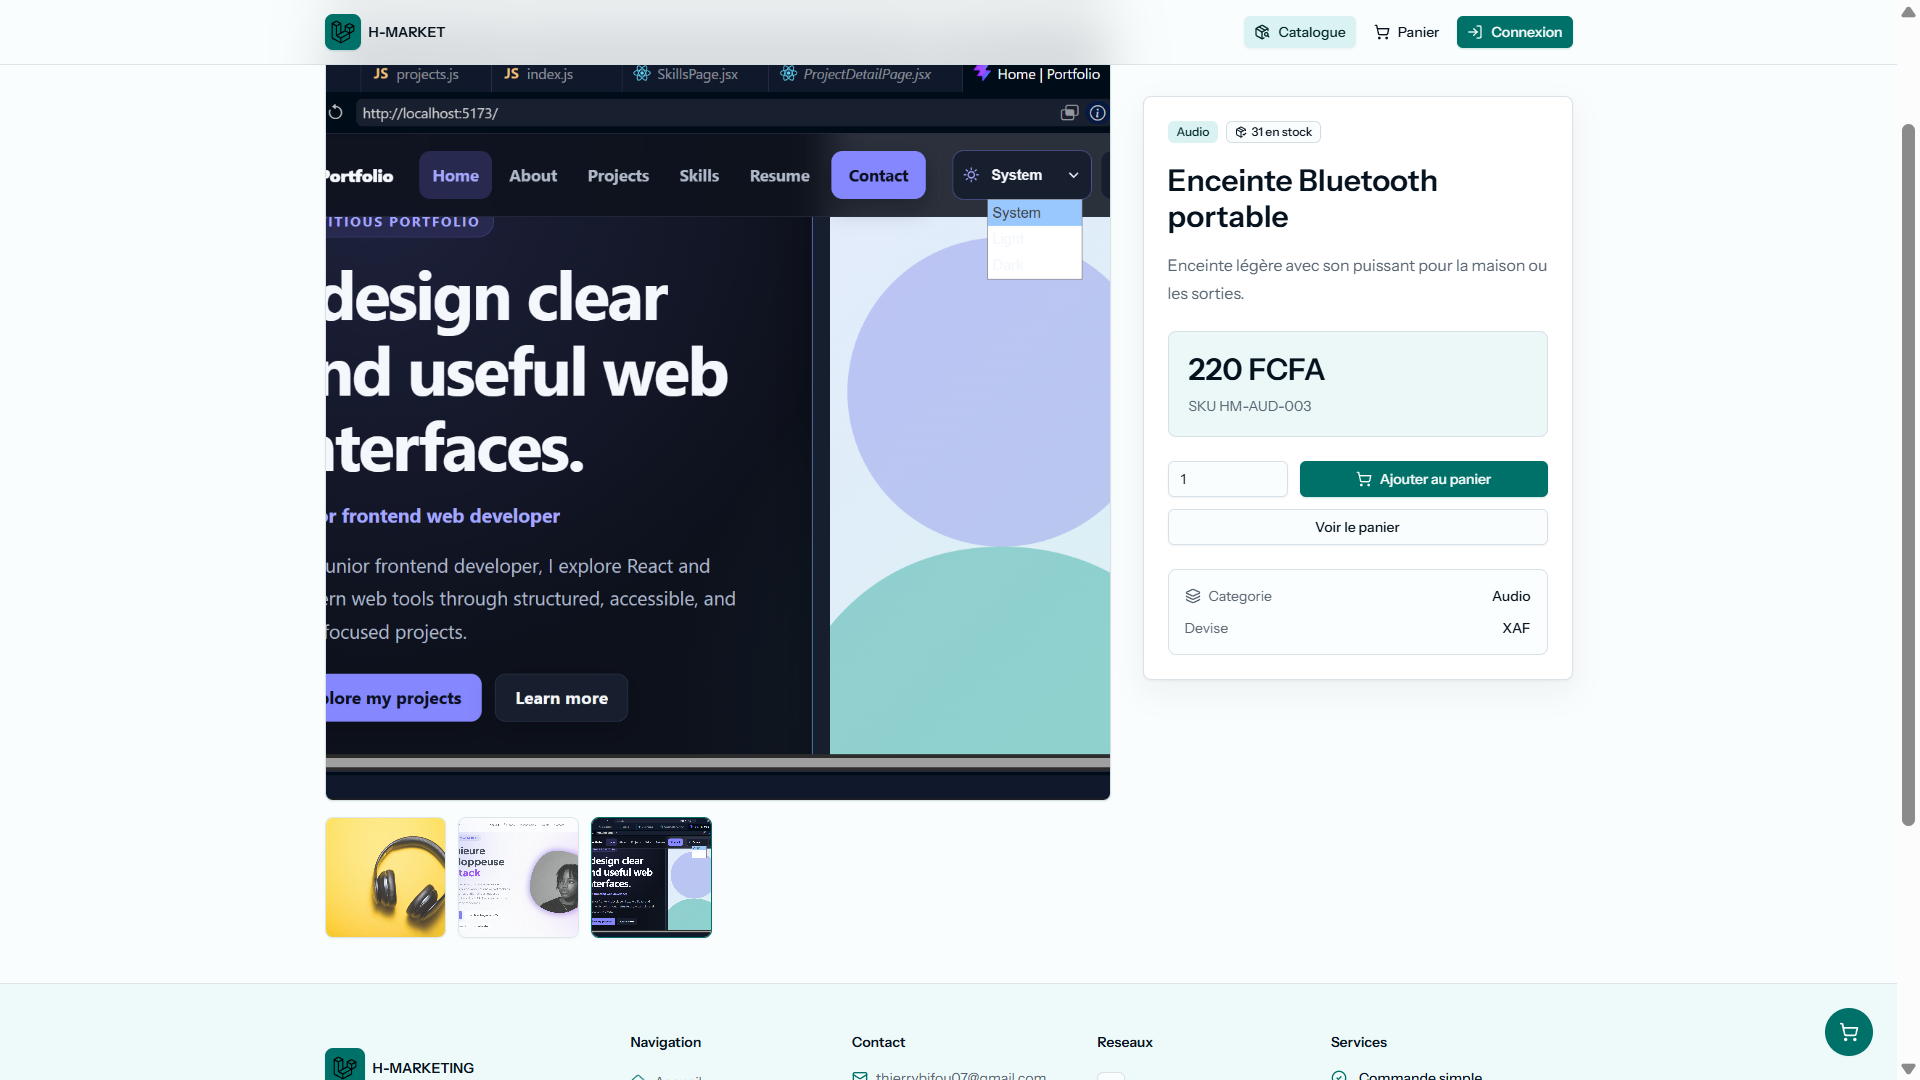
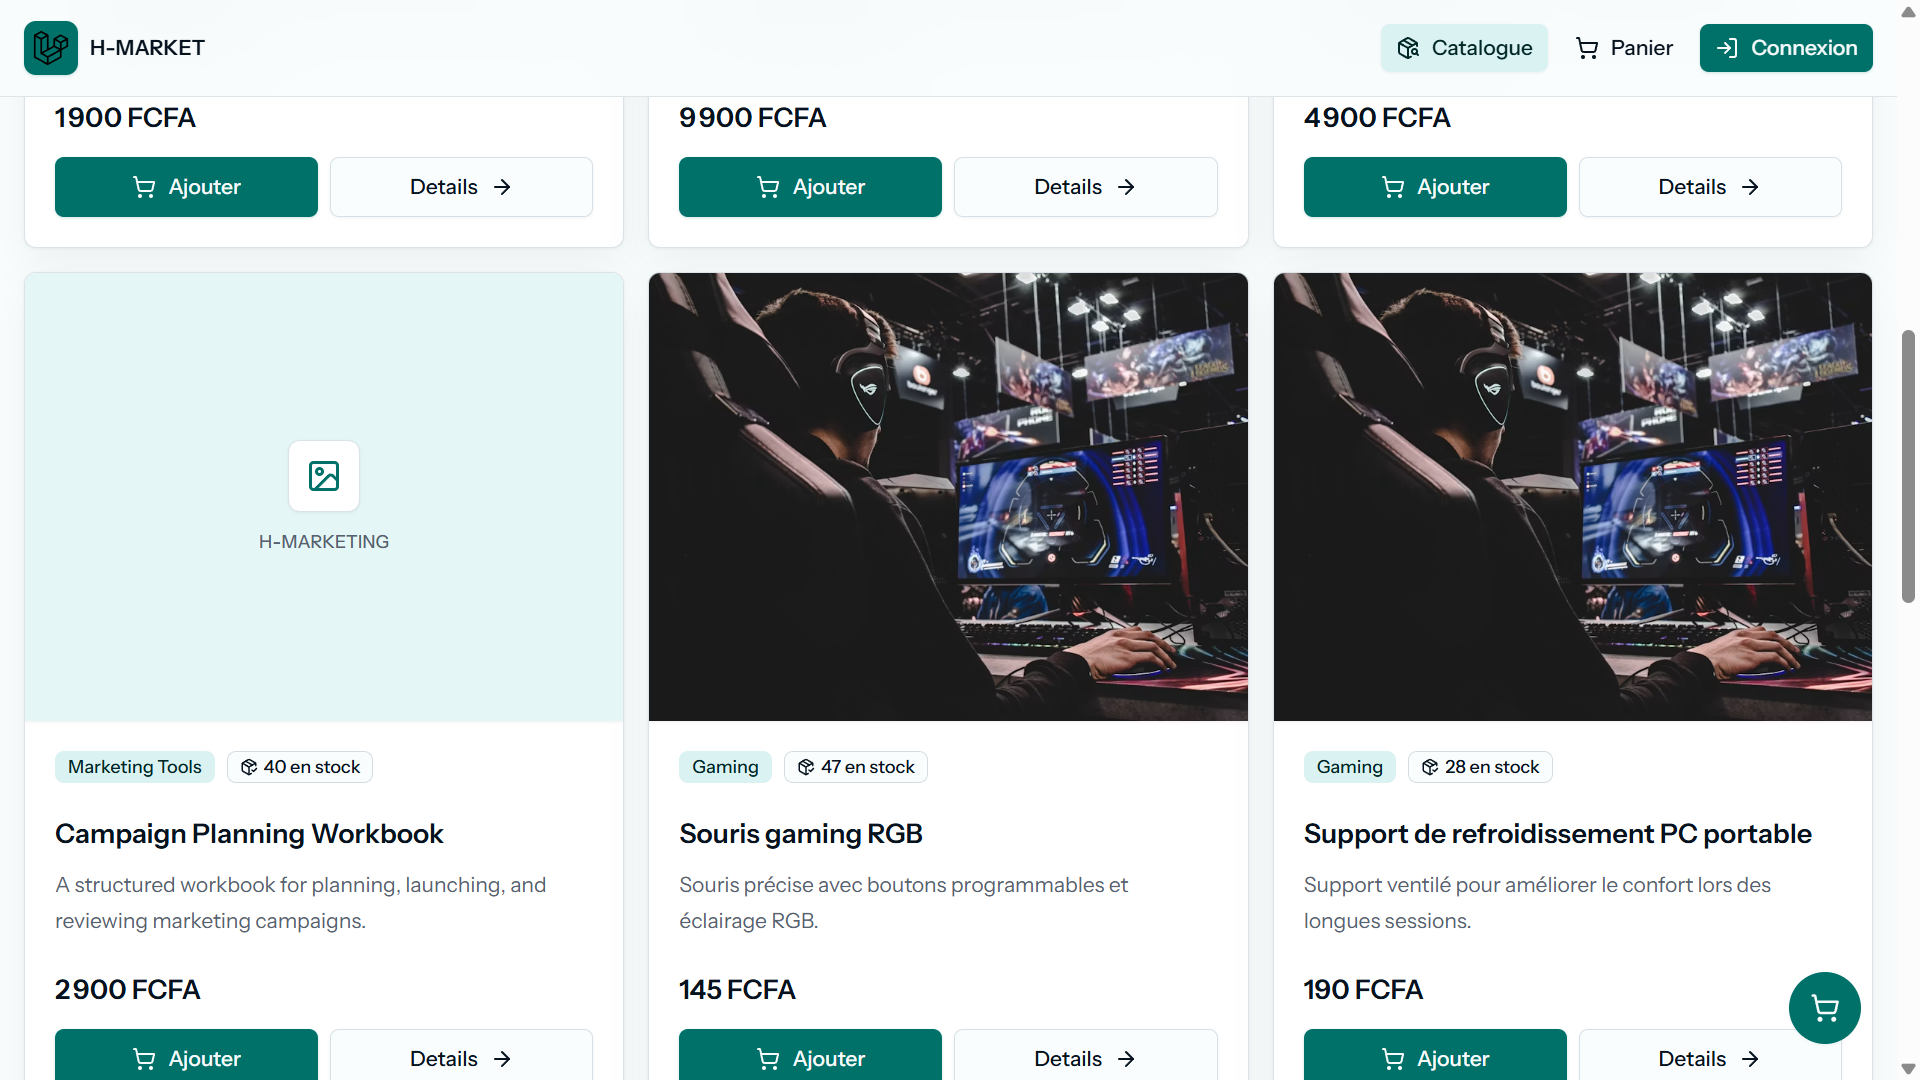
Rename H-Shop to H-Market; update assets & config
Rename project text from H-Shop to H-Market in English and French locales, add and update H-Market gallery images, and update project imports/gallery entries. Also update site config (LinkedIn and WhatsApp URLs, set defaultLocale to 'en'), mark ARMS and H-Market liveUrl as null and liveStatus as UNAVAILABLE, and adjust project preview image selection. Minor component change: remove unused label prop passed to SkillLevelIndicator in SkillGroupCard.jsx.

diff --git a/src/data/locales/fr/content.js b/src/data/locales/fr/content.js
@@ -149,10 +149,10 @@ const frContent = {
       },
     },
     'h-shop': {
-      title: 'H-Shop',
+      title: 'H-Market',
       shortSummary: 'Application e-commerce avec espace client et back office.',
       summary:
-        'H-Shop est une application de commerce électronique construite progressivement avec React, React DOM et Node.js : catalogue, panier, checkout, authentification, rôles et espace administrateur.',
+        'H-Market est une application de commerce électronique construite progressivement avec React, React DOM et Node.js : catalogue, panier, checkout, authentification, rôles et espace administrateur.',
       problem:
         'Une expérience e-commerce cohérente doit séparer clairement le parcours client, les données produits et les outils de gestion réservés aux administrateurs.',
       solution:
@@ -162,18 +162,30 @@ const frContent = {
         'API Express pour les produits, catégories, commandes et sessions.',
         'Authentification avec rôles customer et admin, routes protégées et back office séparé.',
       ],
-      imageAlt: 'Aperçu de l’application e-commerce H-Shop',
+      imageAlt: 'Aperçu de l’application e-commerce H-Market',
       galleryContent: {
         catalog: {
-          alt: 'Vue du catalogue de produits H-Shop',
+          alt: 'Vue du catalogue de produits H-Market',
           caption: null,
         },
         checkout: {
-          alt: 'Vue du parcours de commande H-Shop',
+          alt: 'Vue du parcours de commande H-Market',
           caption: null,
         },
-        payment: {
-          alt: 'Vue de l’étape de paiement H-Shop',
+        order: {
+          alt: 'Vue de l’étape de validation et paiement de commande H-Market',
+          caption: null,
+        },
+        order_admin: {
+          alt: 'Vue de l’étape d’administration des commandes H-Market',
+          caption: null,
+        },
+        dashboard: {
+          alt: 'Vue du tableau de bord H-Market',
+          caption: null,
+        },
+        checkout1: {
+          alt: 'Vue du parcours de commande H-Market',
           caption: null,
         },
       },
@@ -251,7 +263,7 @@ const frContent = {
   experience: {
     'independent-projects': {
       title: 'Développement de projets web personnels et collaboratifs',
-      organization: 'ARMS, H-Shop, BusTix, Paroisse-App et portfolio personnel',
+      organization: 'ARMS, H-Market, BusTix, Paroisse-App et portfolio personnel',
       location: 'Douala, Cameroun — à distance',
       summary:
         'Conception et développement progressif d’applications web afin de consolider mes compétences frontend, backend et organisationnelles.',

diff --git a/src/data/locales/en/content.js b/src/data/locales/en/content.js
@@ -149,10 +149,10 @@ const enContent = {
       },
     },
     'h-shop': {
-      title: 'H-Shop',
+      title: 'H-Market',
       shortSummary: 'E-commerce application with customer area and back office.',
       summary:
-        'H-Shop is an e-commerce application progressively built with React, React DOM, and Node.js: catalog, cart, checkout, authentication, roles, and an administrator area.',
+        'H-Market is an e-commerce application progressively built with React, React DOM, and Node.js: catalog, cart, checkout, authentication, roles, and an administrator area.',
       problem:
         'A consistent e-commerce experience must clearly separate the customer journey, product data, and management tools reserved for administrators.',
       solution:
@@ -162,18 +162,30 @@ const enContent = {
         'Express API for products, categories, orders, and sessions.',
         'Authentication with customer and admin roles, protected routes, and a separate back office.',
       ],
-      imageAlt: 'Preview of the H-Shop e-commerce application',
+      imageAlt: 'Preview of the H-Market e-commerce application',
       galleryContent: {
         catalog: {
-          alt: 'View of the H-Shop product catalog',
+          alt: 'View of the H-Market product catalog',
           caption: null,
         },
         checkout: {
-          alt: 'View of the H-Shop checkout journey',
+          alt: 'View of the H-Market checkout journey',
           caption: null,
         },
-        payment: {
-          alt: 'View of the H-Shop payment step',
+        order: {
+          alt: 'View of the H-Market order step',
+          caption: null,
+        },
+        order_admin: {
+          alt: 'View of the H-Market order administration step',
+          caption: null,
+        },
+        dashboard: {
+          alt: 'View of the H-Market dashboard for administrators',
+          caption: null,
+        },
+        checkout1: {
+          alt: 'View of the H-Market checkout journey',
           caption: null,
         },
       },
@@ -251,7 +263,7 @@ const enContent = {
   experience: {
     'independent-projects': {
       title: 'Personal and collaborative web development projects',
-      organization: 'ARMS, H-Shop, BusTix, Paroisse-App, and personal portfolio',
+      organization: 'ARMS, H-Market, BusTix, Paroisse-App, and personal portfolio',
       location: 'Douala, Cameroon — remote',
       summary:
         'Progressive design and development of web applications to strengthen my frontend, backend, and organizational skills.',

diff --git a/src/data/shared/projects.js b/src/data/shared/projects.js
@@ -14,6 +14,10 @@ import armsLoginPage from '../../assets/images/projects/arms/login.png'
 
 import hshopCardPage from '../../assets/images/projects/h-shop/product-card.png'
 import hshopCardPage2 from '../../assets/images/projects/h-shop/product-card-2.png'
+import hshopOrder from '../../assets/images/projects/h-shop/orders1.png'
+import hshopOrderAdmin from '../../assets/images/projects/h-shop/orders-admin.png'
+import hshopDashboard from '../../assets/images/projects/h-shop/dashboard.png'
+import hshopCheckout from '../../assets/images/projects/h-shop/checkout2.png'
 
 export const projectPreviewVariants = Object.freeze({
   MOBILE: 'mobile',
@@ -127,9 +131,9 @@ const projects = Object.freeze([
     status: 'concept',
     previewVariant: projectPreviewVariants.DESKTOP,
     previewFit: projectPreviewFits.CONTAIN,
-    liveUrl: 'https://arms-laravel-app-production.up.railway.app/',
+    liveUrl: null,
     repositoryUrl: 'https://github.com/thierrybifou07-eng/arms-laravel-app',
-    liveStatus: projectLiveStatuses.AVAILABLE,
+    liveStatus: projectLiveStatuses.UNAVAILABLE,
   }),
   defineProject({
     slug: 'h-shop',
@@ -145,7 +149,7 @@ const projects = Object.freeze([
       'authentication',
       'git',
     ],
-    image: hshopCardPage,
+    image: hshopOrderAdmin,
     gallery: [
       {
         id: 'catalog',
@@ -156,17 +160,29 @@ const projects = Object.freeze([
         src: hshopCardPage,
       },
       {
-        id: 'payment',
-        src: hshopCardPage,
+        id: 'order',
+        src: hshopOrder,
+      },
+      {
+        id: 'order_admin',
+        src: hshopOrderAdmin,
+      },
+      {
+        id: 'dashboard',
+        src: hshopDashboard,
+      },
+      {
+        id: 'checkout1',
+        src: hshopCheckout,
       },
     ],
     featured: true,
     status: 'concept',
     previewVariant: projectPreviewVariants.DESKTOP,
     previewFit: projectPreviewFits.CONTAIN,
-    liveUrl: 'https://h-market-production.up.railway.app/',
+    liveUrl: null,
     repositoryUrl: 'https://github.com/thierrybifou07-eng/h-market-app/',
-    liveStatus: projectLiveStatuses.AVAILABLE,
+    liveStatus: projectLiveStatuses.UNAVAILABLE,
   }),
   defineProject({
     slug: 'bustix',

diff --git a/src/config/site.js b/src/config/site.js
@@ -13,14 +13,14 @@ const contactLinks = Object.freeze([
   Object.freeze({
     id: 'linkedin',
     label: 'LinkedIn',
-    url: 'https://www.linkedin.com/in/gedeon-bifou-881b67397?utm_source=share&utm_campaign=share_via&utm_content=profile&utm_medium=android_app',
+    url: 'https://www.linkedin.com/in/gedeon-bifou',
     icon: 'linkedin',
     external: true,
   }),
   Object.freeze({
     id: 'whatsapp',
     label: 'WhatsApp',
-    url: 'https://wa.me/237697147114',
+    url: 'https://wa.me/237679801670',
     icon: 'whatsapp',
     external: true,
   }),
@@ -37,7 +37,7 @@ const siteConfig = Object.freeze({
   name: 'Gedeon Bifou',
   shortName: 'GB.',
   defaultTitle: 'Gedeon Bifou',
-  defaultLocale: 'fr',
+  defaultLocale: 'en',
   supportedLocales,
   contactEmail,
   contactLinks,

diff --git a/src/components/skills/SkillGroupCard.jsx b/src/components/skills/SkillGroupCard.jsx
@@ -15,7 +15,6 @@ function SkillGroupCard({ delay, group }) {
             <li key={skill.id}>
               <span className="skill-name">{skill.label}</span>
               <SkillLevelIndicator
-                label={skill.levelLabel}
                 rank={skill.levelRank}
               />
             </li>
